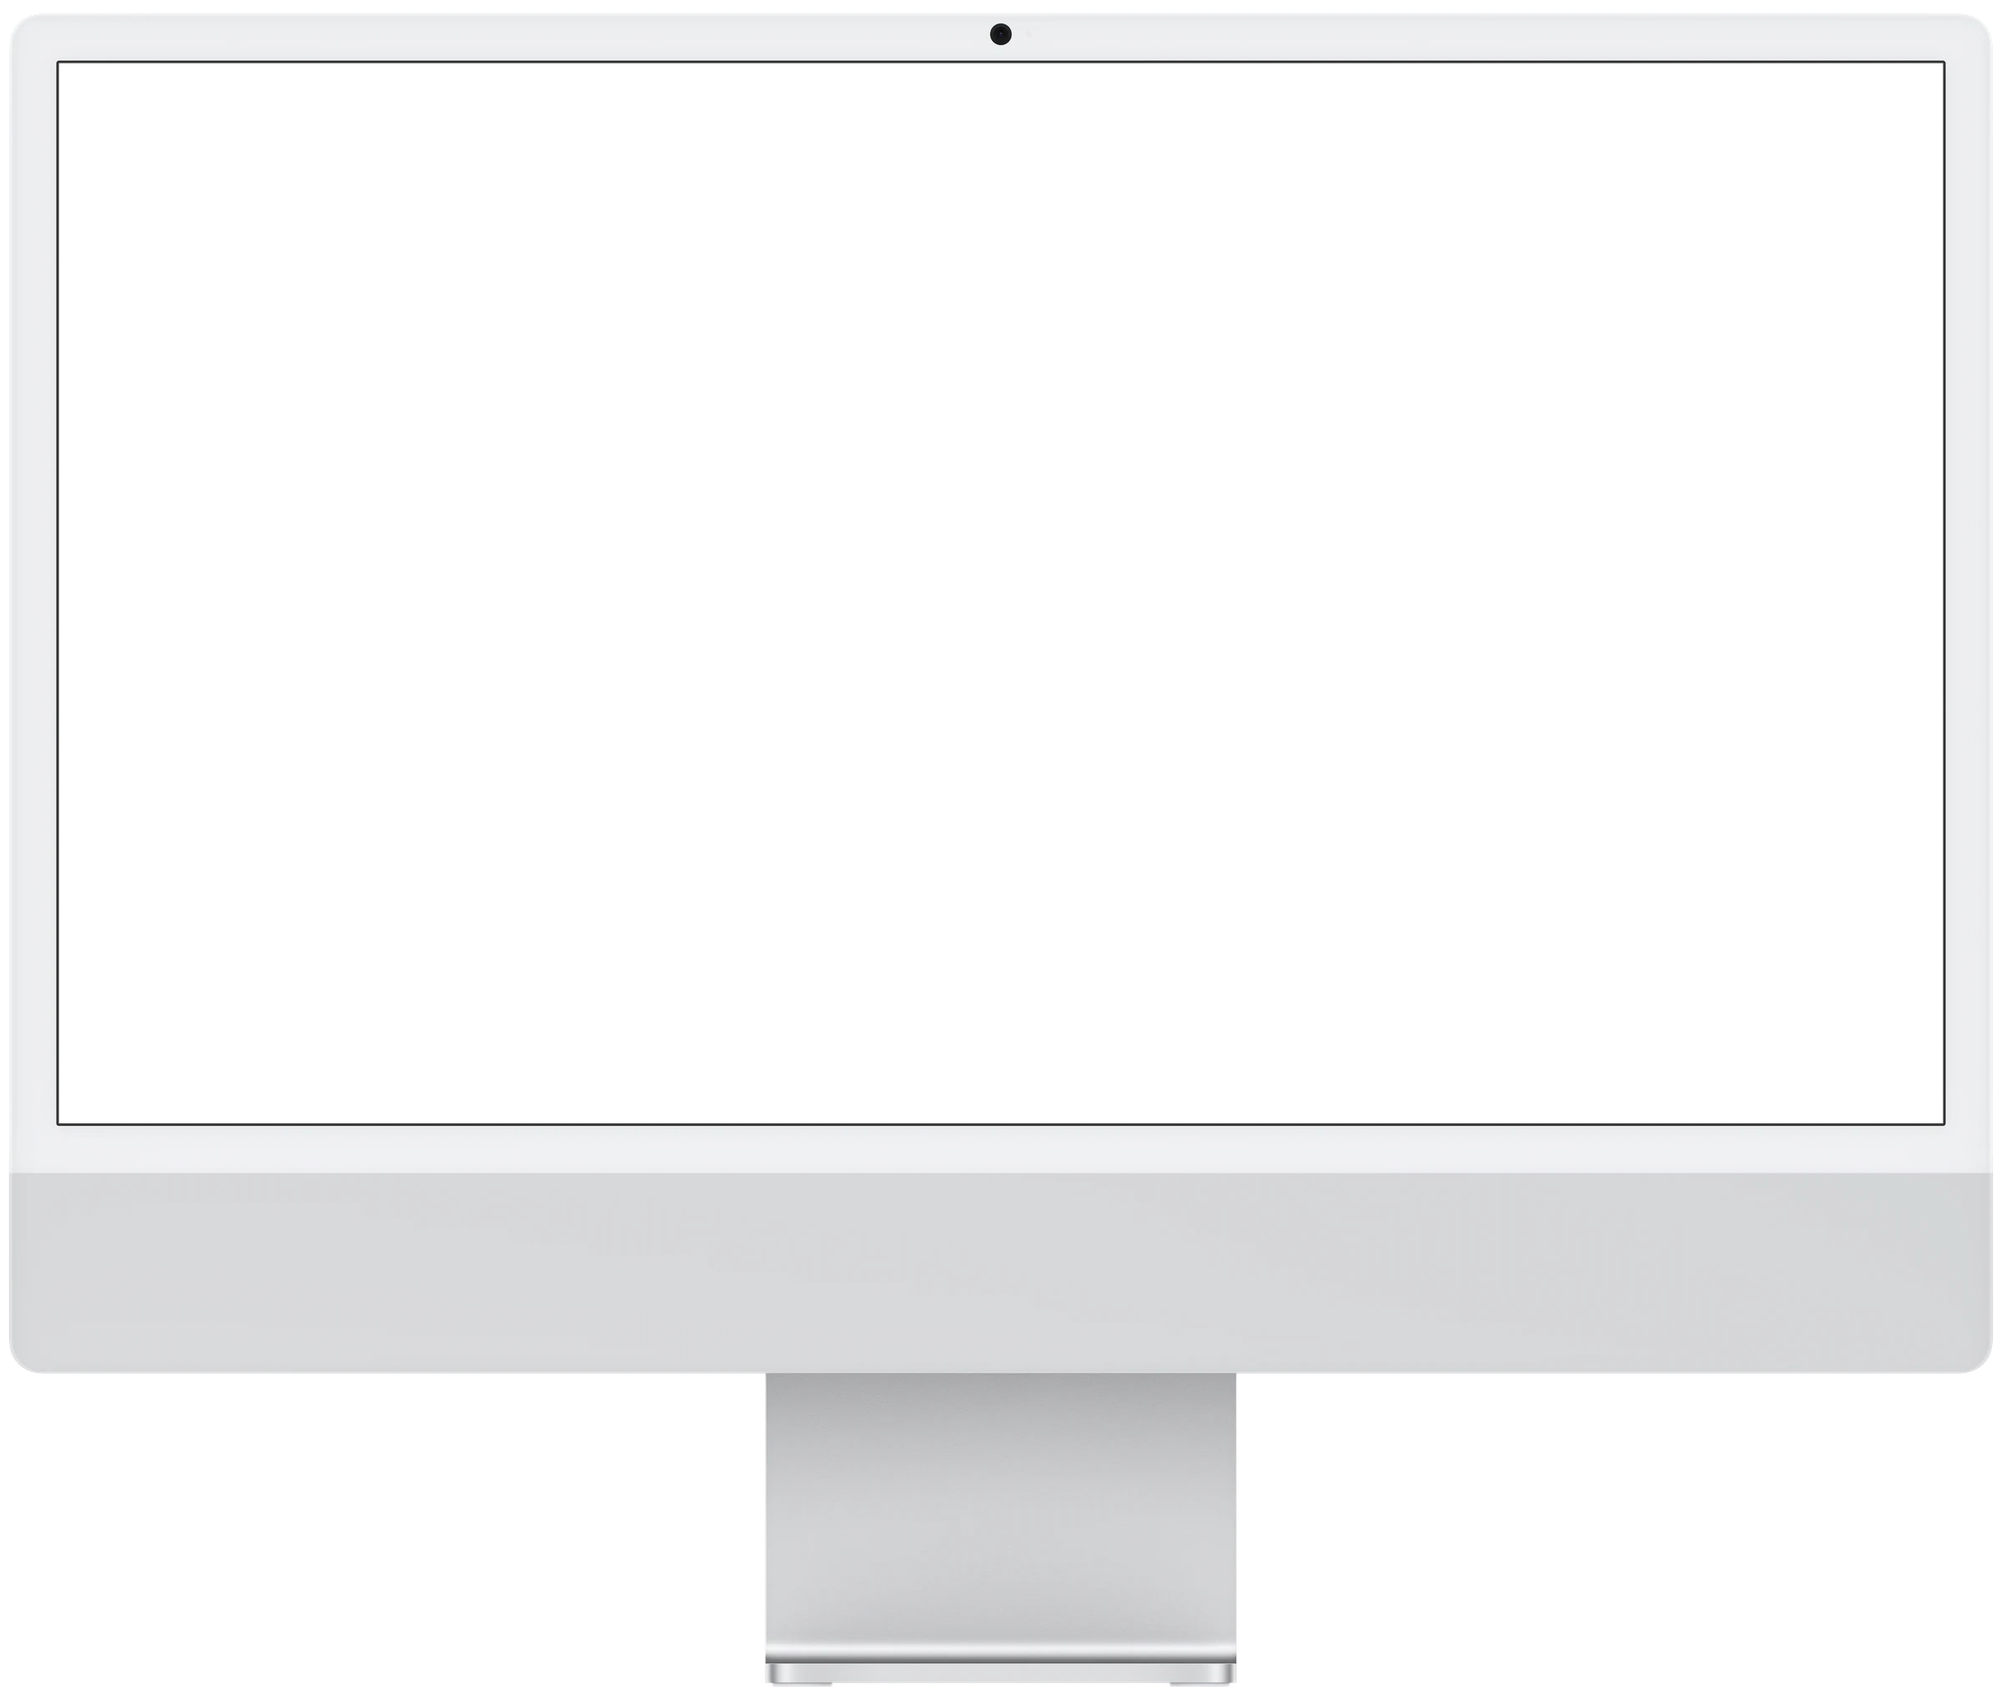
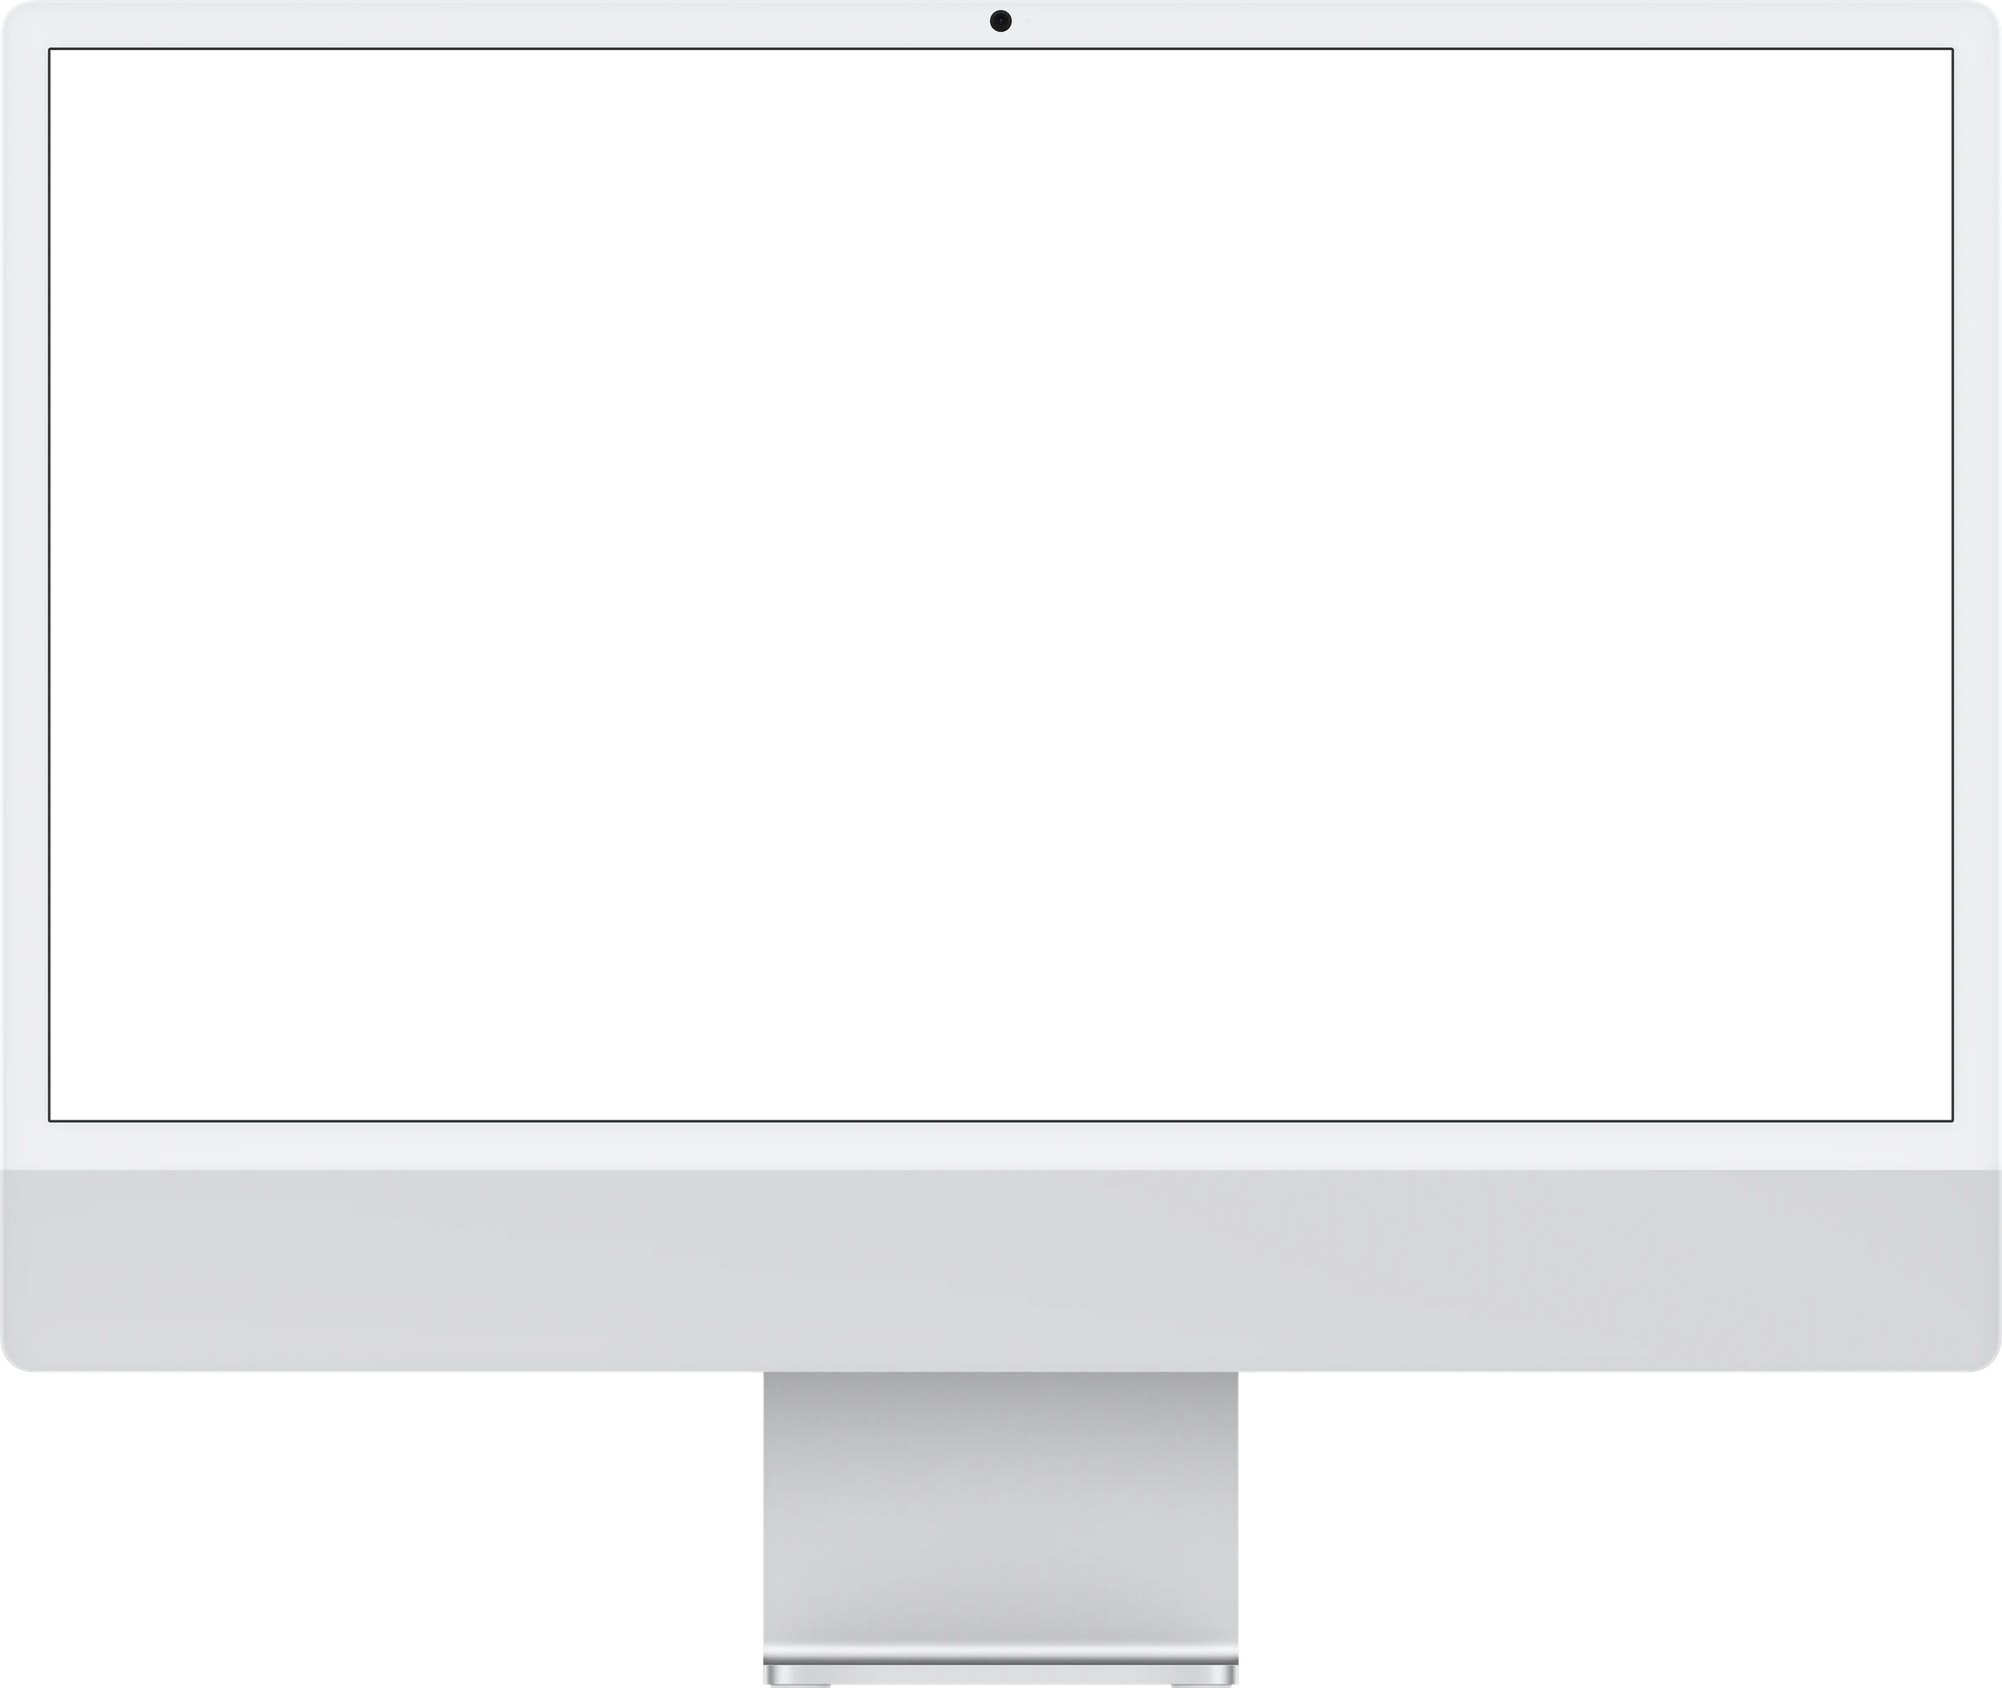
Kodak devices: bezels cropped to the visible device so rows meet the page margins

diff --git a/index.html b/index.html
@@ -1611,47 +1611,49 @@
     z-index: 1;
   }
 
-  /* iMac 24" (4760 x 4050; screen 4480 x 2520 at 140, 150) */
+  /* Bezels are cropped to the visible device, so its edges sit on the
+     page margins. */
+  /* iMac 24" (4718 x 3976; screen 4480 x 2520 at 119, 118) */
   .dev-imac .dev-screen {
-    left: calc(140 / 4760 * 100%);
-    top: calc(150 / 4050 * 100%);
-    width: calc(4480 / 4760 * 100%);
-    height: calc(2520 / 4050 * 100%);
+    left: calc(119 / 4718 * 100%);
+    top: calc(118 / 3976 * 100%);
+    width: calc(4480 / 4718 * 100%);
+    height: calc(2520 / 3976 * 100%);
   }
 
-  /* MacBook Air 13" (3400 x 2240; screen 2560 x 1664 at 420, 288) */
+  /* MacBook Air 13" (3205 x 1941; screen 2560 x 1664 at 323, 61) */
   .dev-laptop .dev-screen {
-    left: calc(420 / 3400 * 100%);
-    top: calc(288 / 2240 * 100%);
-    width: calc(2560 / 3400 * 100%);
-    height: calc(1664 / 2240 * 100%);
+    left: calc(323 / 3205 * 100%);
+    top: calc(61 / 1941 * 100%);
+    width: calc(2560 / 3205 * 100%);
+    height: calc(1664 / 1941 * 100%);
   }
 
-  /* iPad Air 11" upright (1900 x 2620; screen 1640 x 2360 at 130, 130) */
+  /* iPad Air 11" upright (1864 x 2584; screen 1640 x 2360 at 110, 114) */
   .dev-tablet .dev-screen {
-    left: calc(130 / 1900 * 100%);
-    top: calc(130 / 2620 * 100%);
-    width: calc(1640 / 1900 * 100%);
-    height: calc(2360 / 2620 * 100%);
+    left: calc(110 / 1864 * 100%);
+    top: calc(114 / 2584 * 100%);
+    width: calc(1640 / 1864 * 100%);
+    height: calc(2360 / 2584 * 100%);
   }
 
-  /* iPhone 17 Pro (1350 x 2760; screen 1206 x 2620 at 72, 70) */
+  /* iPhone 17 Pro (1318 x 2717; screen 1206 x 2620 at 56, 49) */
   .dev-phone .dev-screen {
-    left: calc(72 / 1350 * 100%);
-    top: calc(70 / 2760 * 100%);
-    width: calc(1206 / 1350 * 100%);
-    height: calc(2620 / 2760 * 100%);
+    left: calc(56 / 1318 * 100%);
+    top: calc(49 / 2717 * 100%);
+    width: calc(1206 / 1318 * 100%);
+    height: calc(2620 / 2717 * 100%);
   }
 
   /* Opening: the large desktop on its own, one page at a time. It scrolls
      itself until you scroll it, click into it, or pick a page below. */
   .kd-hero .dev-imac {
-    width: min(100%, calc((100vh - var(--fade-bottom) - var(--margin)) * 4760 / 4050));
+    width: min(100%, calc((100vh - var(--fade-bottom) - var(--margin)) * 4718 / 3976));
     margin: 0 auto;
   }
 
   .kd-desktop .dev-imac {
-    width: min(100%, calc((100vh - var(--fade-bottom) - var(--margin) - 90px) * 4760 / 4050));
+    width: min(100%, calc((100vh - var(--fade-bottom) - var(--margin) - 90px) * 4718 / 3976));
     margin: 0 auto;
   }
 
@@ -1999,7 +2001,7 @@
   }
 
   .kd-proto .dev-laptop {
-    width: min(100%, calc((100vh - var(--fade-bottom) - 60px) * 3400 / 2240));
+    width: min(100%, calc((100vh - var(--fade-bottom) - 60px) * 3205 / 1941));
     margin: 0 auto;
   }
 
@@ -4662,7 +4664,7 @@
   <button class="book-close" id="kodakClose" aria-label="Close">&times;</button>
   <div class="gallery-scroll" id="kodakScroll">
     <div class="pj-section kd-hero">
-      <div class="dev dev-imac" role="img" aria-label="The Kodak film page on a large desktop, scrolling"><div class="dev-screen"><div class="dev-tape" data-tape="film-desktop"></div></div><img class="dev-frame" data-src="portfolio projects/Kodak/web/devices/imac.webp" alt="" width="2400" height="2042"></div>
+      <div class="dev dev-imac" role="img" aria-label="The Kodak film page on a large desktop, scrolling"><div class="dev-screen"><div class="dev-tape" data-tape="film-desktop"></div></div><img class="dev-frame" data-src="portfolio projects/Kodak/web/devices/imac.webp" alt="" width="2400" height="2023"></div>
     </div>
     <div class="project-head">
       <h2 class="project-title">A proposed redesign of the<br> Kodak website, built as one system<br> for every page and every screen.</h2>
@@ -4803,7 +4805,7 @@
       <span class="kd-note">Select a page below, then scroll through it inside the screen.</span>
     </div>
     <div class="pj-section kd-desktop">
-      <div class="dev dev-imac" id="kodakExplorer"><div class="dev-screen kd-explore" tabindex="0" aria-label="The Kodak website on a large desktop. Scroll inside to explore."><div class="kd-explore-page"></div></div><img class="dev-frame" data-src="portfolio projects/Kodak/web/devices/imac.webp" alt="" width="2400" height="2042"></div>
+      <div class="dev dev-imac" id="kodakExplorer"><div class="dev-screen kd-explore" tabindex="0" aria-label="The Kodak website on a large desktop. Scroll inside to explore."><div class="kd-explore-page"></div></div><img class="dev-frame" data-src="portfolio projects/Kodak/web/devices/imac.webp" alt="" width="2400" height="2023"></div>
       <div class="kd-tabs" aria-label="Pages"><button type="button" data-page="home">Homepage</button><button type="button" data-page="cameras">Cameras Page</button><button type="button" data-page="ektar">Ektar H35N</button><button type="button" data-page="pixpro">PIXPRO WPZ2</button><button type="button" data-page="film">Film Page</button></div>
     </div>
     <div class="kd-part">
@@ -4811,44 +4813,44 @@
       <span class="kd-label">Homepage, Share Your Kodak Moments</span>
     </div>
     <div class="kd-set">
-      <div class="dev dev-laptop" style="--w: 304"><div class="dev-screen"><div class="dev-tape" data-tape="share-laptop"></div></div><img class="dev-frame" data-src="portfolio projects/Kodak/web/devices/laptop.webp" alt="" width="2000" height="1318"></div>
-      <div class="dev dev-tablet" style="--w: 179"><div class="dev-screen"><div class="dev-tape" data-tape="share-tablet"></div></div><img class="dev-frame" data-src="portfolio projects/Kodak/web/devices/tablet.webp" alt="" width="1000" height="1379"></div>
-      <div class="dev dev-phone" style="--w: 72"><div class="dev-screen"><div class="dev-tape" data-tape="share-phone"></div></div><img class="dev-frame" data-src="portfolio projects/Kodak/web/devices/phone.webp" alt="" width="600" height="1227"></div>
+      <div class="dev dev-laptop" style="--w: 304"><div class="dev-screen"><div class="dev-tape" data-tape="share-laptop"></div></div><img class="dev-frame" data-src="portfolio projects/Kodak/web/devices/laptop.webp" alt="" width="2000" height="1211"></div>
+      <div class="dev dev-tablet" style="--w: 179"><div class="dev-screen"><div class="dev-tape" data-tape="share-tablet"></div></div><img class="dev-frame" data-src="portfolio projects/Kodak/web/devices/tablet.webp" alt="" width="1000" height="1386"></div>
+      <div class="dev dev-phone" style="--w: 72"><div class="dev-screen"><div class="dev-tape" data-tape="share-phone"></div></div><img class="dev-frame" data-src="portfolio projects/Kodak/web/devices/phone.webp" alt="" width="600" height="1237"></div>
     </div>
     <div class="kd-part">
       <p class="interjection is-long">Large example photography and white space, applied at every scale.</p>
       <span class="kd-label">Camera Page</span>
     </div>
     <div class="kd-set">
-      <div class="dev dev-laptop" style="--w: 304"><div class="dev-screen"><div class="dev-tape" data-tape="cameras-laptop"></div></div><img class="dev-frame" data-src="portfolio projects/Kodak/web/devices/laptop.webp" alt="" width="2000" height="1318"></div>
-      <div class="dev dev-tablet" style="--w: 179"><div class="dev-screen"><div class="dev-tape" data-tape="cameras-tablet"></div></div><img class="dev-frame" data-src="portfolio projects/Kodak/web/devices/tablet.webp" alt="" width="1000" height="1379"></div>
-      <div class="dev dev-phone" style="--w: 72"><div class="dev-screen"><div class="dev-tape" data-tape="cameras-phone"></div></div><img class="dev-frame" data-src="portfolio projects/Kodak/web/devices/phone.webp" alt="" width="600" height="1227"></div>
+      <div class="dev dev-laptop" style="--w: 304"><div class="dev-screen"><div class="dev-tape" data-tape="cameras-laptop"></div></div><img class="dev-frame" data-src="portfolio projects/Kodak/web/devices/laptop.webp" alt="" width="2000" height="1211"></div>
+      <div class="dev dev-tablet" style="--w: 179"><div class="dev-screen"><div class="dev-tape" data-tape="cameras-tablet"></div></div><img class="dev-frame" data-src="portfolio projects/Kodak/web/devices/tablet.webp" alt="" width="1000" height="1386"></div>
+      <div class="dev dev-phone" style="--w: 72"><div class="dev-screen"><div class="dev-tape" data-tape="cameras-phone"></div></div><img class="dev-frame" data-src="portfolio projects/Kodak/web/devices/phone.webp" alt="" width="600" height="1237"></div>
     </div>
     <div class="kd-part">
       <p class="interjection is-long">The system emphasizes color variations and product photography, creating a product page that inspires you to create.</p>
       <span class="kd-label">Product Page, Ektar H35N</span>
     </div>
     <div class="kd-set">
-      <div class="dev dev-laptop" style="--w: 304"><div class="dev-screen"><div class="dev-tape" data-tape="ektar-laptop"></div></div><img class="dev-frame" data-src="portfolio projects/Kodak/web/devices/laptop.webp" alt="" width="2000" height="1318"></div>
-      <div class="dev dev-tablet" style="--w: 179"><div class="dev-screen"><div class="dev-tape" data-tape="ektar-tablet"></div></div><img class="dev-frame" data-src="portfolio projects/Kodak/web/devices/tablet.webp" alt="" width="1000" height="1379"></div>
-      <div class="dev dev-phone" style="--w: 72"><div class="dev-screen"><div class="dev-tape" data-tape="ektar-phone"></div></div><img class="dev-frame" data-src="portfolio projects/Kodak/web/devices/phone.webp" alt="" width="600" height="1227"></div>
+      <div class="dev dev-laptop" style="--w: 304"><div class="dev-screen"><div class="dev-tape" data-tape="ektar-laptop"></div></div><img class="dev-frame" data-src="portfolio projects/Kodak/web/devices/laptop.webp" alt="" width="2000" height="1211"></div>
+      <div class="dev dev-tablet" style="--w: 179"><div class="dev-screen"><div class="dev-tape" data-tape="ektar-tablet"></div></div><img class="dev-frame" data-src="portfolio projects/Kodak/web/devices/tablet.webp" alt="" width="1000" height="1386"></div>
+      <div class="dev dev-phone" style="--w: 72"><div class="dev-screen"><div class="dev-tape" data-tape="ektar-phone"></div></div><img class="dev-frame" data-src="portfolio projects/Kodak/web/devices/phone.webp" alt="" width="600" height="1237"></div>
     </div>
     <div class="kd-part kd-label-only">
       <span class="kd-label">Product Page, PIXPRO WPZ2</span>
     </div>
     <div class="kd-set">
-      <div class="dev dev-laptop" style="--w: 304"><div class="dev-screen"><div class="dev-tape" data-tape="pixpro-laptop"></div></div><img class="dev-frame" data-src="portfolio projects/Kodak/web/devices/laptop.webp" alt="" width="2000" height="1318"></div>
-      <div class="dev dev-tablet" style="--w: 179"><div class="dev-screen"><div class="dev-tape" data-tape="pixpro-tablet"></div></div><img class="dev-frame" data-src="portfolio projects/Kodak/web/devices/tablet.webp" alt="" width="1000" height="1379"></div>
-      <div class="dev dev-phone" style="--w: 72"><div class="dev-screen"><div class="dev-tape" data-tape="pixpro-phone"></div></div><img class="dev-frame" data-src="portfolio projects/Kodak/web/devices/phone.webp" alt="" width="600" height="1227"></div>
+      <div class="dev dev-laptop" style="--w: 304"><div class="dev-screen"><div class="dev-tape" data-tape="pixpro-laptop"></div></div><img class="dev-frame" data-src="portfolio projects/Kodak/web/devices/laptop.webp" alt="" width="2000" height="1211"></div>
+      <div class="dev dev-tablet" style="--w: 179"><div class="dev-screen"><div class="dev-tape" data-tape="pixpro-tablet"></div></div><img class="dev-frame" data-src="portfolio projects/Kodak/web/devices/tablet.webp" alt="" width="1000" height="1386"></div>
+      <div class="dev dev-phone" style="--w: 72"><div class="dev-screen"><div class="dev-tape" data-tape="pixpro-phone"></div></div><img class="dev-frame" data-src="portfolio projects/Kodak/web/devices/phone.webp" alt="" width="600" height="1237"></div>
     </div>
     <div class="kd-part">
       <p class="interjection is-long">A film page that sells film by highlighting user photography.</p>
       <span class="kd-label">Film Page</span>
     </div>
     <div class="kd-set">
-      <div class="dev dev-laptop" style="--w: 304"><div class="dev-screen"><div class="dev-tape" data-tape="film-laptop"></div></div><img class="dev-frame" data-src="portfolio projects/Kodak/web/devices/laptop.webp" alt="" width="2000" height="1318"></div>
-      <div class="dev dev-tablet" style="--w: 179"><div class="dev-screen"><div class="dev-tape" data-tape="film-tablet"></div></div><img class="dev-frame" data-src="portfolio projects/Kodak/web/devices/tablet.webp" alt="" width="1000" height="1379"></div>
-      <div class="dev dev-phone" style="--w: 72"><div class="dev-screen"><div class="dev-tape" data-tape="film-phone"></div></div><img class="dev-frame" data-src="portfolio projects/Kodak/web/devices/phone.webp" alt="" width="600" height="1227"></div>
+      <div class="dev dev-laptop" style="--w: 304"><div class="dev-screen"><div class="dev-tape" data-tape="film-laptop"></div></div><img class="dev-frame" data-src="portfolio projects/Kodak/web/devices/laptop.webp" alt="" width="2000" height="1211"></div>
+      <div class="dev dev-tablet" style="--w: 179"><div class="dev-screen"><div class="dev-tape" data-tape="film-tablet"></div></div><img class="dev-frame" data-src="portfolio projects/Kodak/web/devices/tablet.webp" alt="" width="1000" height="1386"></div>
+      <div class="dev dev-phone" style="--w: 72"><div class="dev-screen"><div class="dev-tape" data-tape="film-phone"></div></div><img class="dev-frame" data-src="portfolio projects/Kodak/web/devices/phone.webp" alt="" width="600" height="1237"></div>
     </div>
     <div class="book-contact">
       <span>&copy; Liam Jacob Kengla</span>
